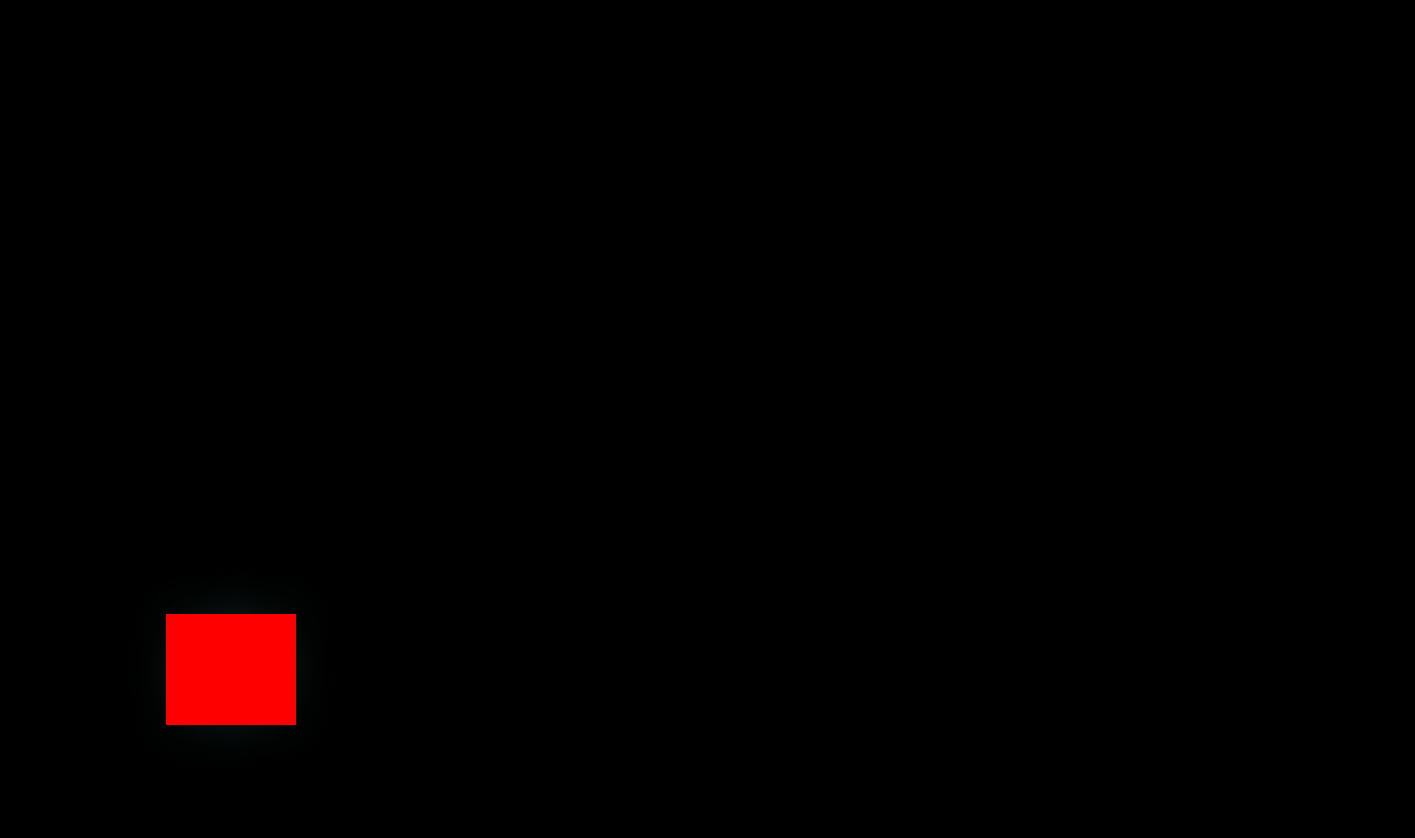
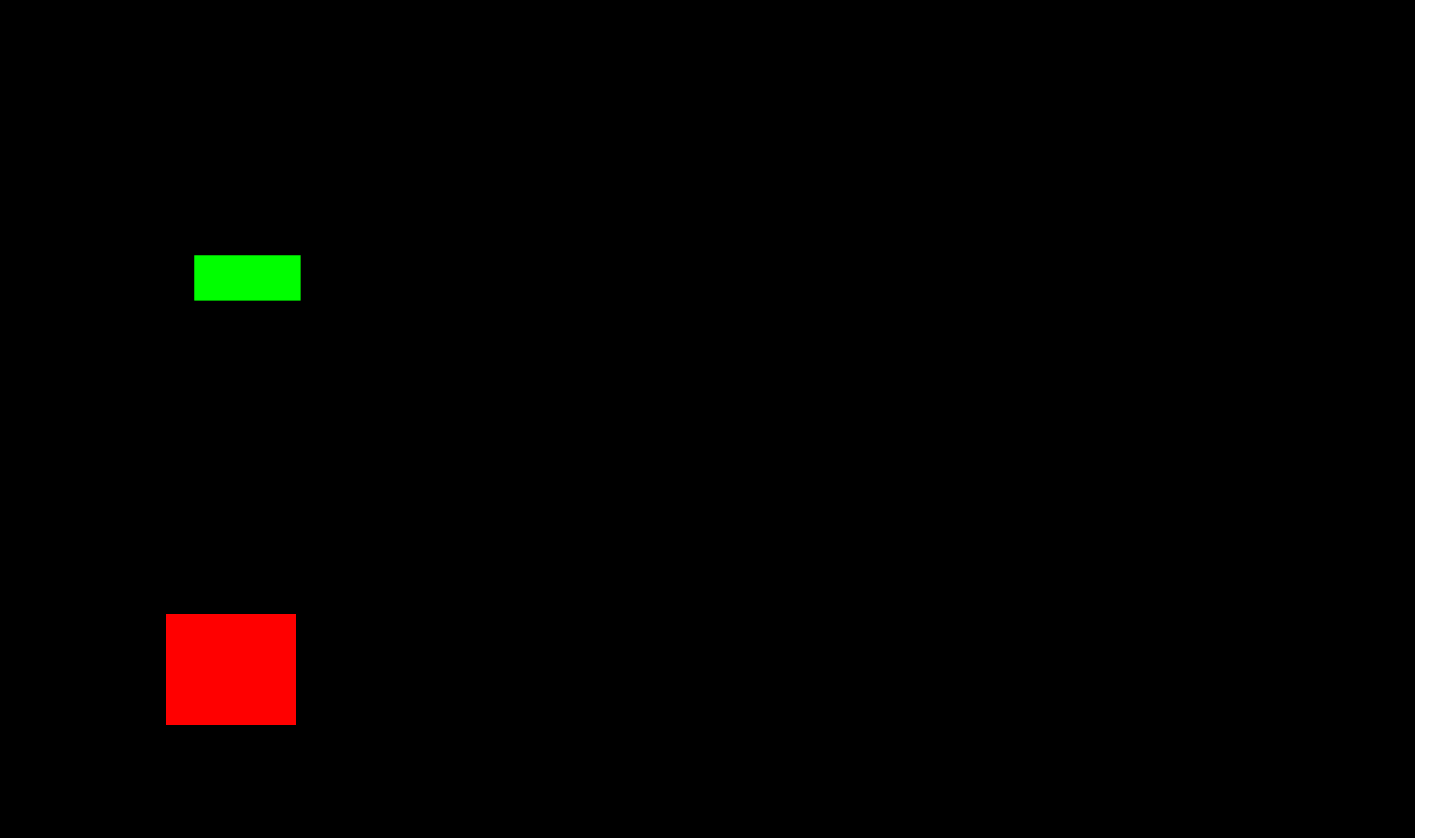
Add scene filter

Changed region(s): [[0.964, 0.0, 1.0, 1.0], [0.1244, 0.2792, 0.2177, 0.3723], [0.1866, 0.7446, 0.2177, 0.8687]]

diff --git a/js/lib/ShaderLayer.js b/js/lib/ShaderLayer.js
@@ -6,8 +6,12 @@ import {
   maskTextures as MASK_PATHS,
   layers as ROOM_LAYERS,
   layerById,
+  INITIAL_HIDE,
+  MID_GAME_REVEALABLE,
+  END_GAME_GROUP,
 } from "../modules/roomLayersConfig.js";
-import depthMap from "../../assets/room/room-depth-2.png";
+import depthMapFull from "../../assets/room/room-depth-2.png";
+import depthMapEmpty from "../../assets/room/room-depth-1.png";
 
 export default class ShaderLayer extends BaseLayer {
   constructor({ mouse, events }) {
@@ -16,18 +20,18 @@ export default class ShaderLayer extends BaseLayer {
     this.targetMouse = new THREE.Vector2(0.5, 0.5);
     this.time = 0;
     this.events = events;
-    this.variantState = {}; // id -> variant index
-    // callbacks that fire once bounding boxes are computed
+    this.variantState = {};
     this._bboxReadyCallbacks = [];
     this._buildMultiPass();
-    // Hook for future events
-    // this.events.on('layer.setVariant', ({id,variant}) => this.setVariant(id, variant));
-    setTimeout(() => this.setVariant("table", 1), 0); // second variant of table
+    this._applyInitialVisibility();
+    this._wireRevealEvents();
+    setTimeout(() => this.setVariant("table", 1), 0);
   }
 
   _buildMultiPass() {
     const loader = new THREE.TextureLoader();
-    this.depthTexture = loader.load(depthMap, (tex) => {
+    this._currentDepthMap = "empty";
+    this.depthTexture = loader.load(depthMapEmpty, (tex) => {
       const img = tex.image;
       if (img && img.width && img.height) {
         const aspect = img.width / img.height;
@@ -93,10 +97,12 @@ export default class ShaderLayer extends BaseLayer {
         fragmentShader: layerFragment,
       });
       const mesh = new THREE.Mesh(this.geometry, material);
-      mesh.renderOrder = 10 + idx; // ensure atop background
+      mesh.renderOrder = 10 + idx;
       this.add(mesh);
-      // Force picture-hover hidden initially
       if (entry.def.id === "picture-hover") {
+        material.uniforms.enabled.value = 0.0;
+      }
+      if (INITIAL_HIDE.includes(entry.def.id)) {
         material.uniforms.enabled.value = 0.0;
       }
       return { mesh, material, entry };
@@ -109,7 +115,54 @@ export default class ShaderLayer extends BaseLayer {
     });
   }
 
-  // _singleLayerFragment removed: shader moved to ../shader/layerFragment.glsl
+  _applyInitialVisibility() {}
+
+  _wireRevealEvents() {
+    if (!this.events) return;
+    this.events.on("room.reveal", ({ id }) => {
+      if (!id) return;
+      this.setLayerEnabled(id, true);
+      if (
+        MID_GAME_REVEALABLE.every((rid) => this._isLayerEnabled(rid)) &&
+        !this._midCompleted
+      ) {
+        this._midCompleted = true;
+        this.events.emit("room.midCompleted");
+      }
+    });
+    this.events.on("room.revealAll", () => {
+      END_GAME_GROUP.forEach((id) => this.setLayerEnabled(id, true));
+      this._swapDepthMap("full");
+      this.events.emit("room.fullVisible");
+    });
+    this.events.on("room.setDepth", ({ mode }) => {
+      this._swapDepthMap(mode === "full" ? "full" : "empty");
+    });
+  }
+
+  _isLayerEnabled(id) {
+    const entry = this.getLayerEntry(id);
+    return entry ? entry.material.uniforms.enabled.value > 0.5 : false;
+  }
+
+  _swapDepthMap(mode) {
+    if (mode === this._currentDepthMap) return;
+    const loader = new THREE.TextureLoader();
+    const texPath = mode === "full" ? depthMapFull : depthMapEmpty;
+    loader.load(texPath, (tex) => {
+      this.depthTexture = tex;
+      this.layerMeshes.forEach(({ material }) => {
+        material.uniforms.depthTexture.value = tex;
+        if (tex.image) {
+          const img = tex.image;
+          const aspect = img.width / img.height;
+          if (material.uniforms.depthAspect)
+            material.uniforms.depthAspect.value = aspect;
+        }
+      });
+      this._currentDepthMap = mode;
+    });
+  }
 
   _tryComputeBBoxes() {
     if (this._pendingMaskLoads > 0) return; // wait all loaded
@@ -158,7 +211,6 @@ export default class ShaderLayer extends BaseLayer {
       }
       return null;
     };
-    // Collect unique mask/channel combos used by layers
     const combos = [];
     this.layerDefs.forEach((def) => {
       const key = def.mask.i + "_" + def.mask.c;
@@ -185,7 +237,6 @@ export default class ShaderLayer extends BaseLayer {
         };
       }
     });
-    // Apply to materials
     this.layerMeshes.forEach((layer) => {
       const def = layer.entry.def;
       const key = def.mask.i + "_" + def.mask.c;
@@ -195,7 +246,6 @@ export default class ShaderLayer extends BaseLayer {
         layer.material.uniforms.bboxSize.value.set(box.size[0], box.size[1]);
       }
     });
-    // fire callbacks
     if (this._bboxReadyCallbacks.length) {
       this._bboxReadyCallbacks.forEach((cb) => {
         try {
@@ -224,13 +274,11 @@ export default class ShaderLayer extends BaseLayer {
     entry.material.uniforms.enabled.value = flag ? 1.0 : 0.0;
   }
 
-  // Public utility: request callback when mask bounding boxes ready.
   onBBoxesReady(cb) {
     if (this._bboxesComputed) cb();
     else this._bboxReadyCallbacks.push(cb);
   }
 
-  // Get bounding box (UV space) for a given layer id. Returns {min:[x,y], size:[w,h]} or null.
   getLayerBBox(id) {
     const def = layerById[id];
     if (!def || !this._maskChannelBBoxes) return null;
@@ -238,18 +286,15 @@ export default class ShaderLayer extends BaseLayer {
     return this._maskChannelBBoxes[key] || null;
   }
 
-  // Convenience wrapper returning internal mesh/material entry
   getLayerEntry(id) {
     return this.layerMeshes.find((l) => l.entry.def.id === id) || null;
   }
 
-  // Get global depth aspect (from first material) or 1
   getDepthAspect() {
     if (!this.layerMeshes || !this.layerMeshes.length) return 1;
     return this.layerMeshes[0].material.uniforms.depthAspect?.value || 1;
   }
 
-  // Set parallax strength for specific layer id (all its material instances)
   setParallaxStrength(id, value) {
     const entry = this.getLayerEntry(id);
     if (entry) entry.material.uniforms.parallaxStrength.value = value;

diff --git a/js/app.js b/js/app.js
@@ -1,10 +1,4 @@
-// structure- slides, or minigames, slides with transitions next-only
-// structure to visualize a lot of 2d images
-// visualize 3d hero, and play animations, make a module that accepts events to trigger animations
-// create dat-gui to go "next next or prev slides"
-// prepare images for game assets
-
-// create divs with numbers, and assign show-hide animations to them to run it from flowmachine!
+// Core app bootstrap
 
 import * as THREE from "three";
 import { OrbitControls } from "three/examples/jsm/controls/OrbitControls.js";
@@ -44,7 +38,6 @@ const layerManager = new LayerManager(layers);
 
 const bus = mitt();
 
-// Scoreboard instance (initially hidden)
 const scoreBoard = new ScoreBoard({ bus });
 
 const gameManager = new GameManager({ bus });
@@ -95,6 +88,7 @@ gonext.forEach((el) => {
 class AppController {
   constructor(options) {
     this.container = options.dom;
+    this.bus = options.bus;
     this.width = this.container.offsetWidth;
     this.height = this.container.offsetHeight;
     this.renderer = new THREE.WebGLRenderer();
@@ -104,6 +98,17 @@ class AppController {
     this.renderer.autoClear = false;
     this.renderer.domElement.classList.add("gl-canvas");
     this.container.appendChild(this.renderer.domElement);
+
+    this.filterEl = document.createElement("div");
+    this.filterEl.className = "scene-filter";
+    this.filterOpacity = 0.5;
+    this._applyFilterOpacity();
+    const firstSlide = document.querySelector(".slide");
+    if (firstSlide && firstSlide.parentNode === document.body) {
+      this.container.appendChild(this.filterEl);
+    } else {
+      this.container.appendChild(this.filterEl);
+    }
 
     this.camera = new THREE.OrthographicCamera(-1, 1, 1, -1, -1, 1);
     this.perspCamera = new THREE.PerspectiveCamera(
@@ -125,7 +130,6 @@ class AppController {
       events: bus,
     });
 
-    // Interaction manager & items
     this.interactionManager = new InteractionManager({
       shaderLayer: this.shaderLayer,
       bus,
@@ -147,15 +151,26 @@ class AppController {
     });
     this.interactionManager.attach();
 
+    this.bus.on("flow.progress", (snap) => {
+      const val = snap.value;
+      if (val > "slide7") {
+        ["picture-1", "picture-2", "picture-hover"].forEach((id) =>
+          this.shaderLayer.setLayerEnabled(id, false)
+        );
+        const picItem = this.interactionManager.items.find(
+          (it) => it.config.id === "picture"
+        );
+        if (picItem) picItem._isActiveSlide = false;
+      }
+    });
+
     bus.on("picture.click", () => {
       flowActor.send({ type: "NEXT" });
     });
 
     this.initPane();
 
-    // Register games
     gameManager.register("finddiff", () => import("./games/finddiff/index.js"));
-    // Preload game
     (async () => {
       try {
         await gameManager.activate("finddiff", { bus });
@@ -170,6 +185,17 @@ class AppController {
     this.setupMouseMove();
     this.lastTime = performance.now();
     this.render();
+  }
+
+  showFilter(opacity = 0.5) {
+    this.filterOpacity = opacity;
+    this.filterEl.style.pointerEvents = "none";
+    this._applyFilterOpacity();
+  }
+
+  hideFilter() {
+    this.filterOpacity = 0;
+    this._applyFilterOpacity();
   }
 
   initPane() {
@@ -233,4 +259,5 @@ class AppController {
 
 new AppController({
   dom: document.getElementById("container"),
+  bus,
 });

diff --git a/js/modules/roomLayersConfig.js b/js/modules/roomLayersConfig.js
@@ -171,6 +171,11 @@ const RAW = [
     tex: "assets/room/objects/books-table.png",
   },
   {
+    id: "books-shelf",
+    mask: { i: 24, c: "g" },
+    tex: "assets/room/objects/books-shelf.png",
+  },
+  {
     id: "book-floor",
     mask: { i: 11, c: "r" },
     tex: "assets/room/objects/book-floor.png",
@@ -380,6 +385,8 @@ export const Z_INDEX = {
   "books-3": 76,
   "books-4": 77,
   "books-table": 78,
+  // Place books-shelf slightly above books-table and below glass-pencils
+  "books-shelf": 78.2,
   "glass-pencils": 79,
   "pencils-on-tha-floor": 80,
   // Sports & play items on floor
@@ -429,3 +436,51 @@ export const layers = RAW.map((l) => {
 
 // Helper maps
 export const layerById = Object.fromEntries(layers.map((l) => [l.id, l]));
+
+// ---------------- Visibility Phases ----------------
+// Objects explicitly requested to stay hidden until the END phase (revealed together)
+export const END_GAME_GROUP = [
+  // Remaining final-only items after moving many to mid reveal group
+  "box-tennis",
+  "goblet",
+  "hockey",
+  "hockey-puck",
+  "hockey-stick",
+  "chess",
+  "medals",
+  "posters",
+  "tennis-bookcase",
+  "tennis-floor",
+  "tennis-racket",
+  "tennis-shelf",
+];
+
+// Individually revealable during MID phase (still hidden at start)
+export const MID_GAME_REVEALABLE = [
+  // original
+  "dino",
+  "robot",
+  "ship",
+  // newly added per request
+  "ufo",
+  "plane",
+  "rocket",
+  "chandelier", // user: chanelier
+  "car-blue",
+  "car-green",
+  "car-yellow",
+  "cubes",
+  "car",
+  "football",
+  "picture",
+  "books-1",
+  "books-3",
+  "books-4",
+  "skipping-rope",
+  "skates",
+]; // appear one-by-one mid game
+
+// Initial hidden set = all above
+export const INITIAL_HIDE = Array.from(
+  new Set([...END_GAME_GROUP, ...MID_GAME_REVEALABLE])
+);

diff --git a/css/style.scss b/css/style.scss
@@ -21,6 +21,17 @@ html {
   height: 100vh;
 }
 
+.scene-filter {
+  position: absolute;
+  inset: 0;
+  background: #ffffff; /* white provides zero saturation, used for desaturation */
+  pointer-events: none;
+  z-index: 5; /* above canvas (0) but below slides (10) so slides stay unaffected */
+  opacity: 0.5; /* default intensity */
+  transition: opacity 0.4s ease, mix-blend-mode 0.2s ease;
+  mix-blend-mode: saturation; /* Figma: saturation blend over scene */
+}
+
 // generic overlay object styling (individual positioning handled inline)
 .overlay-object {
   transform: translate3d(0, 0, 0);
